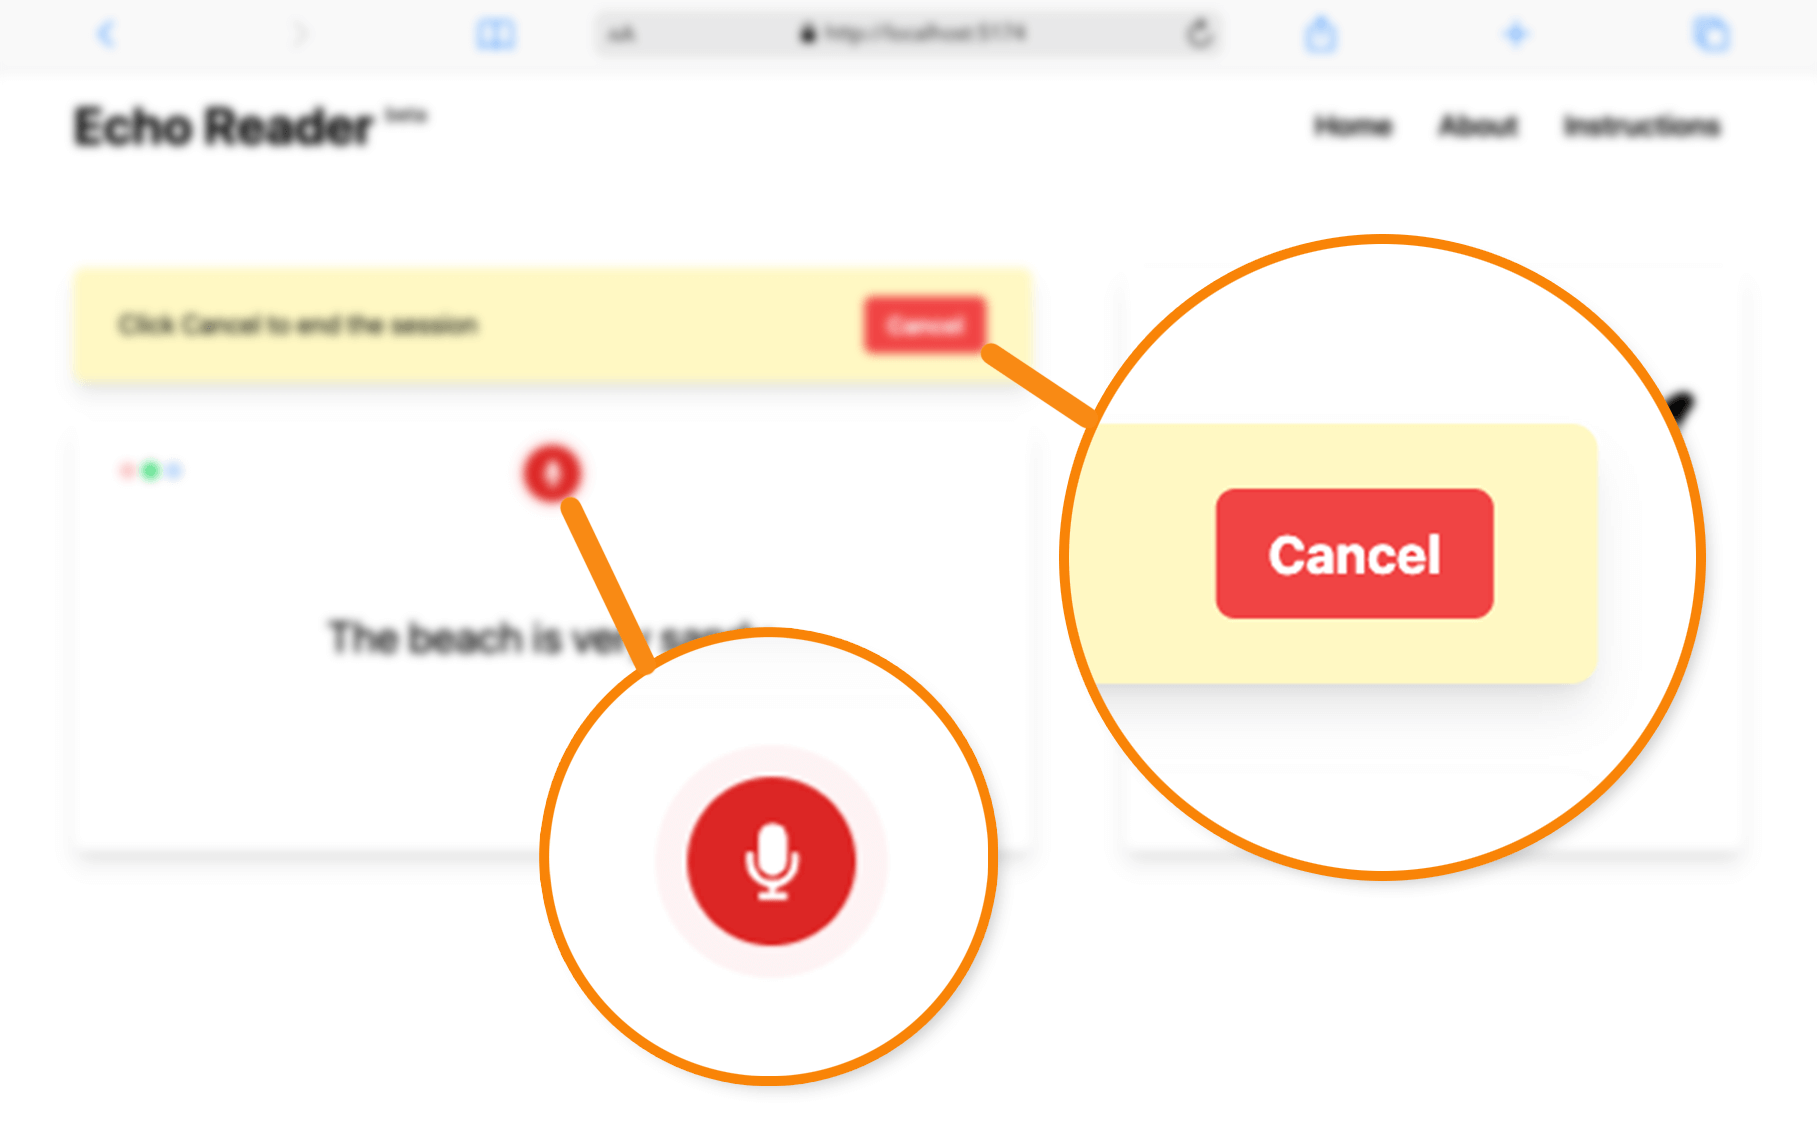
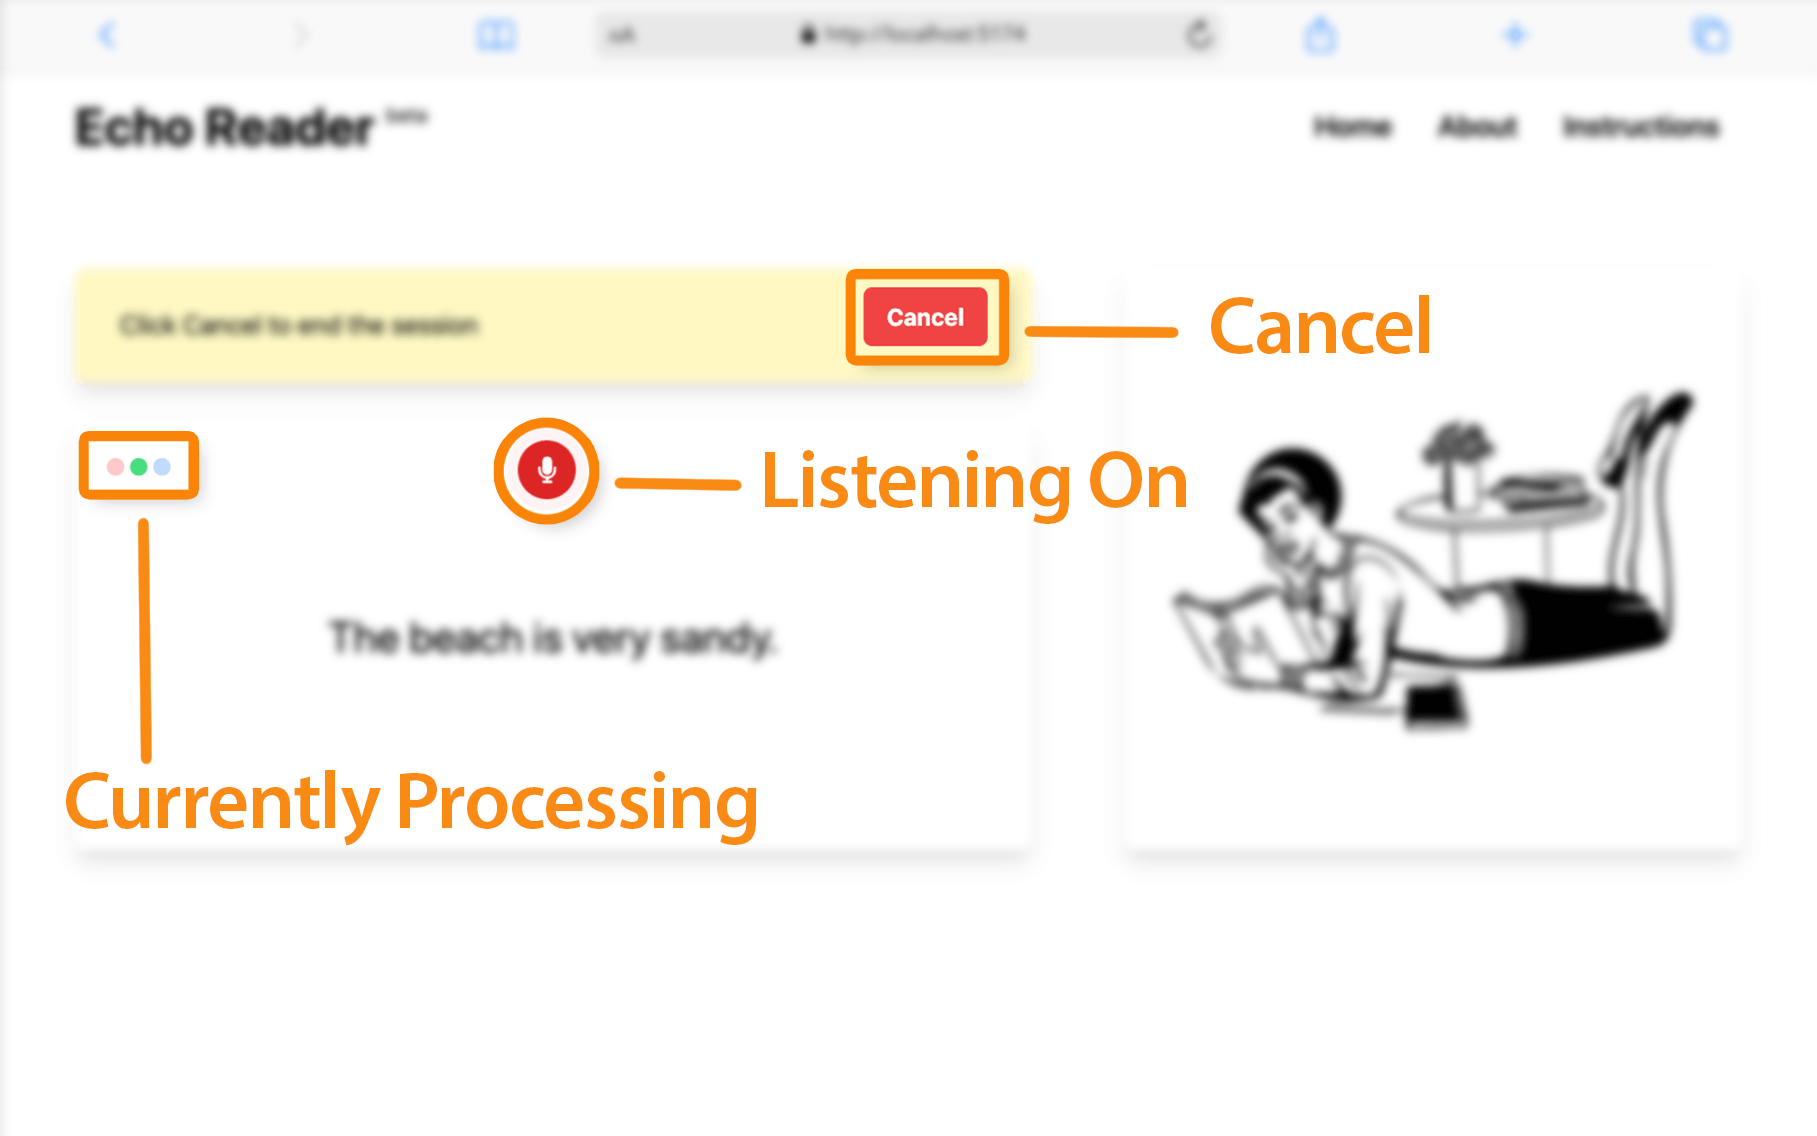
Update about page, instrucitons page, add revised images

diff --git a/src/components/Instructions/Instructions.jsx b/src/components/Instructions/Instructions.jsx
@@ -20,21 +20,14 @@ const Instructions = () => {
   ];
 
   const instructionsText = {
-    10: (
-      <span>
-        Before you can reading aloud to{" "}
-        <bold style={{ color: "red", fontWeight: "bold" }}>Echo Reader</bold>,
-        please allow microphone access.
-      </span>
-    ),
     0: (
       <span>
-        <p>Directions for each step will appear in the control bar. The Session
-        Button allows you to start or cancel a session.</p> <p>Sentences to read and
-        your reading results will appear on the Stage.</p>
+        <p>Directions for each step will appear in the <span className="font-bold text-orange-400">Control Bar</span>. The <span className="font-bold text-orange-400">Session
+        Button</span> allows you to control your session. The text on the button will change depending on what step you are on.</p> <p>Sentences to read and
+        your reading results will appear on the <span className="font-bold text-orange-400">Stage</span>.</p>
       </span>
     ),
-    1: <span>Click Go to get your first reading sentence. </span>,
+    1: <span>Click <span className="font-bold text-green-500">Go</span> to get your first reading sentence. </span>,
     2: (
       <span>
         If you are not using Chrome or Firefox on a laptop or desktop computer,
@@ -43,31 +36,34 @@ const Instructions = () => {
     ),
     3: (
       <span>
-        Before you can start reading aloud to Echo Reader, please allow
-        microphone access if you have not already.
+        Before you can start reading aloud to Echo Reader, please <span className="font-bold">allow
+        microphone access</span> if you have not already.
       </span>
     ),
     4: (
       <span>
-        <p>After clicking go, you will see a new sentence. Take a moment to
+        <p>After clicking <span className="font-bold text-green-500">Go</span>, you will see a new sentence. Take a moment to
         practice reading the sentence silently or aloud.</p> <p>Echo Reader will start
-        listening when you click Start.</p> In this beta version, it is possible
-        that the same sentence is presented back to back. To get a new sentence,
-        click Again.
+        listening when you click <span className="font-bold text-green-500">Start</span> on the <span className="font-bold text-orange-400">Session
+        Button</span>.</p> In this beta version, it is possible
+        that the same sentence is presented back to back. To load a new sentence,
+        click the <span className="font-bold text-orange-400">Refresh</span> button.
       </span>
     ),
     5: (
       <span>
-        <p>The Session Button changes to Cancel while Echo Reader is listening.</p> <p>The
+        <p>The <span className="font-bold text-orange-400">Session
+        Button</span> changes to <span className="font-bold text-red-500">Cancel</span> while Echo Reader is listening. Click it to stop the session and load a new sentence.</p> <p>The
         dots on the left will bounce when Echo Reader starts analyzing your
         speech.</p>
       </span>
     ),
     6: (
       <span>
-        <p>Your results will look like this. What Echo Reader heard you say is
+        <p>Your results will look like this.</p><p> What Echo Reader heard you say is
         under the orginal sentence.</p> <p>All green words means you read every word
-        correctly. Click Again to load a new sentence.</p>
+        correctly. Click <span className="font-bold text-green-500">Again</span> on the <span className="font-bold text-orange-400">Session
+        Button</span> to load a new sentence.</p>
       </span>
     ),
     7: (
@@ -79,13 +75,13 @@ const Instructions = () => {
     ),
     8: (
       <span>
-        <p>Ask Chat GPT to give you more detailed freedback about your reading.</p> <p>If ChatGPT is busy, try again on the next round.</p> 
+        <p>Ask ChatGPT to give you more detailed freedback about your reading.</p> <p>If ChatGPT is busy, try again on the next round.</p> 
       </span>
     ),
   };
 
   return (
-    <div className="page ">
+    <div className="page mb-10 ">
       <div className="page-content-container">
         <h1 className="mb-6">How to Use Echo Reader</h1>
         <div>

diff --git a/src/components/About/About.jsx b/src/components/About/About.jsx
@@ -3,8 +3,92 @@
 
 const About = () => {
   return (
-    <div>about</div>
-  )
-}
+    <div className="page mb-10 ">
+      <div className="page-content-container page-content-container__about-page">
+        <div className="card  about-page__card flex-col">
+          <h1>WHAT ECHO READER DOES</h1>
+          <p>
+            Reading fluency is the the ability to read with speed, accuracy, and
+            proper expression. Echo Reader was designed to evaluate a student's
+            reading accuracy. Reading accurately requires a skill called
+            decoding. When a student decodes a word, they are not guessing or
+            using context clues. Accurate decoding means the student reads
+            exactly what is on the page.
+          </p>
 
-export default About
+          <p>
+            Helping a student practice decoding traditionally requires one on
+            one intervention from a teacher. How else would the student know
+            whether they read a word correctly or not? Echo Reader is like
+            having an extra asistant in the classroom. The student reads a
+            sentence aloud and Echo Reader analyzes the student's reading for
+            errors.
+          </p>
+
+          <p>
+            With the help of ChatGPT, the student receives feedback not only on
+            whether they read the words correctly or incorrectly, but also what
+            type of reading errors were made.
+          </p>
+        </div>
+
+        <div className="card  about-page__card flex-col">
+          <h1>WHY ECHO READER WAS CREATED </h1>
+          <p>
+            As a former teacher, I've seen first hand how poor reading
+            negatively impacts a student's ability to have success across all
+            subjects. No matter what the domain, reading is the gateway to
+            understanding.
+          </p>
+          <p>
+            Written language is one of the earliest human technologies that
+            allowed human civilations to make leaps in its development. Before
+            the internet, written language allowed information to be stored over
+            time and shared with the masses. <p></p>Tools exist now to read
+            things for us, but even with this, reading remains in many cases, a
+            far more efficient way to consume information compared to listening
+            alone.
+          </p>{" "}
+          <p>
+            Students develop crucial learning skills like the ability to sustain
+            focus and attention while reading.
+          </p>
+          <p>
+            {" "}
+            Reading alone, is not the only skill that affects a learners ability
+            to access material, but is a crucial leg of the the table that
+            supports overall learning.
+          </p>
+        </div>
+
+        <div className="card  about-page__card flex-col">
+          <h1>FUTURE DEVELOPMENT PLANS</h1>
+          <p>
+            Echo Reader is currently a proof-of-concept and has quite a way to
+            go in terms of making the interface more appealing to young readers
+            and improving the feedback given to students. The application will
+            be further improved by allowing students to have accounts that stores reading history to track improvement and focus on challenging areas.
+          </p>
+
+          <p>
+            Other improvements will include the ablitly to target a specific
+            reading level and skill when generating sentences to read as well as
+            using an AI image generator - OpenAi's Dall-e image genrator, for
+            example - to spice up the reading experience for beginning readers.
+          </p>
+        </div>
+        <div className="card  about-page__card flex-col">
+          <h1>LIMITATIONS</h1>
+          <p>
+            Because of the nature of the tech used in mobile devices and certain
+            browsers beyond our control, Echo Reader perfrom best on desktop or
+            laptop computers using Firefox or Chrome browsers. Using Echo
+            Reading on mobile devices and tablets is no recommended.
+          </p>
+        </div>
+      </div>
+    </div>
+  );
+};
+
+export default About;

diff --git a/src/components/StageComponents/CueSentenceCard.jsx b/src/components/StageComponents/CueSentenceCard.jsx
@@ -3,6 +3,7 @@ import { processCue } from "../../js/processCue";
 import { SessionContext } from "../../contexts/SessionContext";
 import { FontAwesomeIcon } from "@fortawesome/react-fontawesome";
 import { faMicrophone } from "@fortawesome/free-solid-svg-icons";
+import { faRotate } from "@fortawesome/free-solid-svg-icons";
 import { CountdownCircleTimer } from "react-countdown-circle-timer";
 import CountdownTimer from "../CountdownTimer";
 import DotAnimation from "../../DotAnimation";
@@ -34,6 +35,8 @@ const CueSentenceCard = (props) => {
   const cueRef = useRef(null);
   const micIconRef = useRef(null);
   const micIconPulseRef = useRef(null);
+  const refreshIconRef = useRef(null)
+
   const [cueSentence, setCueSentence] = useState(null);
 
   const selectRandomCue = () => {
@@ -82,13 +85,13 @@ const CueSentenceCard = (props) => {
   }, [sessionState]);
 
   useEffect(() => {
-    if (localStorage.getItem("cue") !== null) {
-      cueRef.current.innerText = localStorage.getItem("cue");
-    }
+   
   });
 
   // turn mic icon recording indicator on and off
   useEffect(() => {
+    sessionState === "listen" ? refreshIconRef.current.classList.add('hidden') : refreshIconRef.current.classList.remove('hidden')
+
     if (sessionState === "listen") {
       micIconRef.current.classList.remove("bg-gray-200");
       micIconRef.current.classList.add("bg-red-600");
@@ -99,6 +102,13 @@ const CueSentenceCard = (props) => {
       micIconPulseRef.current.classList.add("hidden");
     }
   }, [sessionState]);
+
+  const handleCueRefresh = ()=> {
+    if (localStorage.getItem("cue") !== null) {
+      localStorage.removeItem("cue")
+      setCueSentence(selectRandomCue());
+    }
+  }
 
   return (
     <div className="card card__stage card__display--flex-column  card__stage--text lg:width[500px] relative">
@@ -125,6 +135,20 @@ const CueSentenceCard = (props) => {
             className="absolute hidden h-10 w-10 animate-pulse-fade-grow  rounded-full bg-red-600 "
           />
         </div>
+
+        {/* refresh icon */}
+        <span ref={refreshIconRef} className="">
+          <button className="cursor-pointer" onClick={handleCueRefresh} >
+          <FontAwesomeIcon
+              icon={faRotate}
+              className="h-6 text-orange-400"
+            />
+          </button>
+   
+
+        </span>
+       
+
       </div>
       <div className=" w-full text-center " ref={cueRef}>
         {cueSentence}

diff --git a/src/index.css b/src/index.css
@@ -5,12 +5,11 @@
 .root,
 #root,
 #docs-root {
-  --primary-coolor: #e90e0e;
-  --secondary-coolor: #000;
 }
 
 body {
-  /* @apply bg-orange-600; */
+  /* @apply text-[#131516]; */
+  @apply text-[#373d3f];
 }
 
 @layer components {
@@ -61,13 +60,36 @@ body {
   }
 }
 
+/* CSS for About Page */
+
+.about-page__card {
+  @apply bg-slate-100 mb-12 md:pt-14;
+}
+
+.about-page__card p {
+  @apply mb-6 
+    text-lg
+    leading-8
+    sm:text-2xl
+    lg:text-3xl 
+    lg:leading-10 
+    xl:leading-relaxed;
+}
+.about-page__card h1 {
+  @apply mb-4 md:mb-8;
+}
+
+.page-content-container__about-page {
+  @apply md:mx-10 lg:mx-16 xl:mx-44 2xl:mx-52;
+}
+
 /* CSS for Instructions Componenet Elements */
 @layer components {
   .instruction-container {
     @apply mb-10  sm:mb-0 lg:flex lg:justify-center lg:gap-16;
   }
   .instruction-container__instruction-card {
-    @apply mb-6 flex flex-col items-center justify-center overflow-hidden rounded-lg px-4 py-8 text-3xl shadow-lg sm:mb-0  lg:px-8;
+    @apply bg-slate-100 mb-6 flex flex-col items-center justify-center overflow-hidden rounded-lg px-4 py-8 text-3xl shadow-lg sm:mb-0  lg:px-8;
   }
 
   .instruction-container__image-card {
@@ -84,8 +106,7 @@ body {
     xl:leading-relaxed;
   }
   .instruction-container__instruction-card__p p {
-    @apply 
-    mb-3
+    @apply mb-3;
   }
 }
 
@@ -111,7 +132,7 @@ body {
     @apply h-40;
   }
   .card__controls-container--text {
-    @apply text-2xl leading-7 font-medium;
+    @apply text-2xl font-medium leading-7;
   }
   .card__controls-container--flex-row {
     @apply justify-between;
@@ -124,7 +145,6 @@ body {
   }
 
   .card__controls-container--padding {
-   
   }
 
   .card__controls-container--margin {
@@ -212,10 +232,10 @@ body {
   }
 
   .nav-menu--slide-in {
-    @apply md:animate-none animate-menu-slide-in;
+    @apply animate-menu-slide-in md:animate-none;
   }
 
   .nav-menu--slide-out {
-    @apply md:animate-none animate-menu-slide-out;
+    @apply animate-menu-slide-out md:animate-none;
   }
 }
